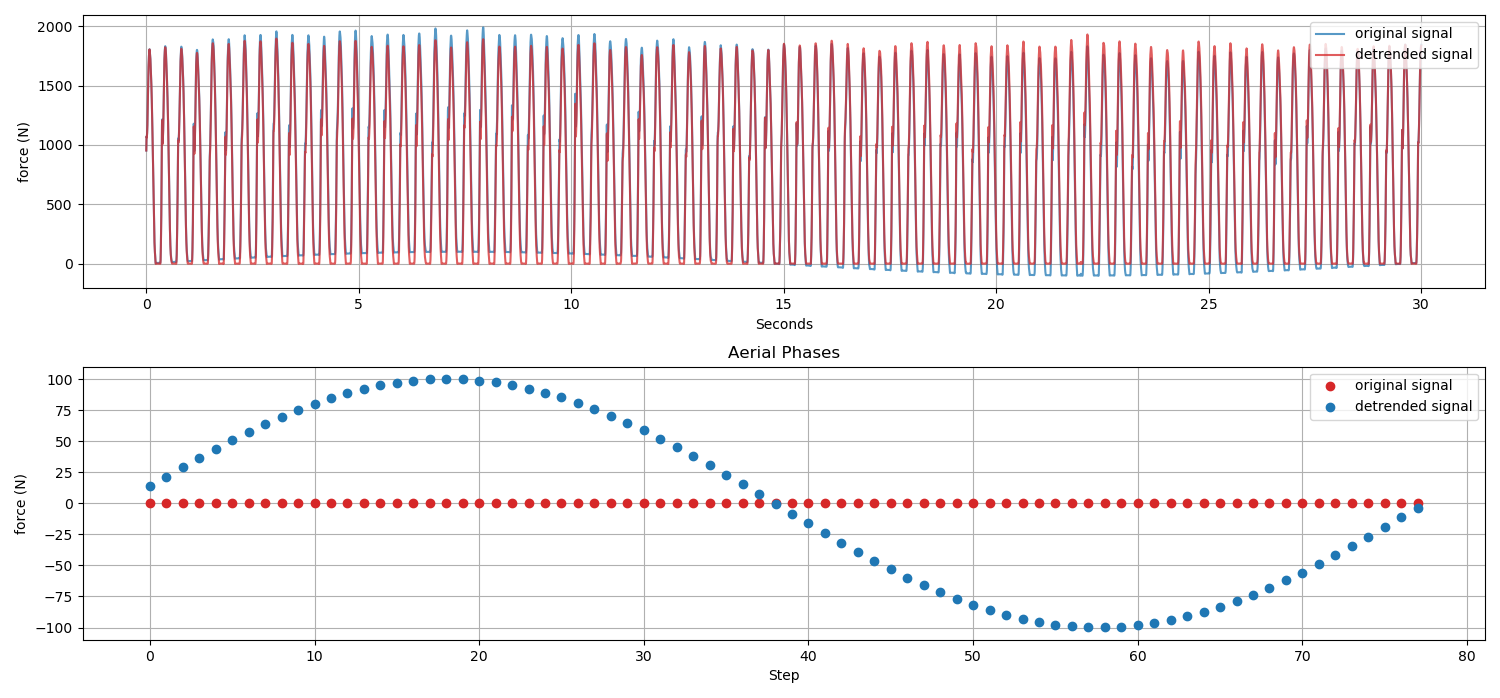
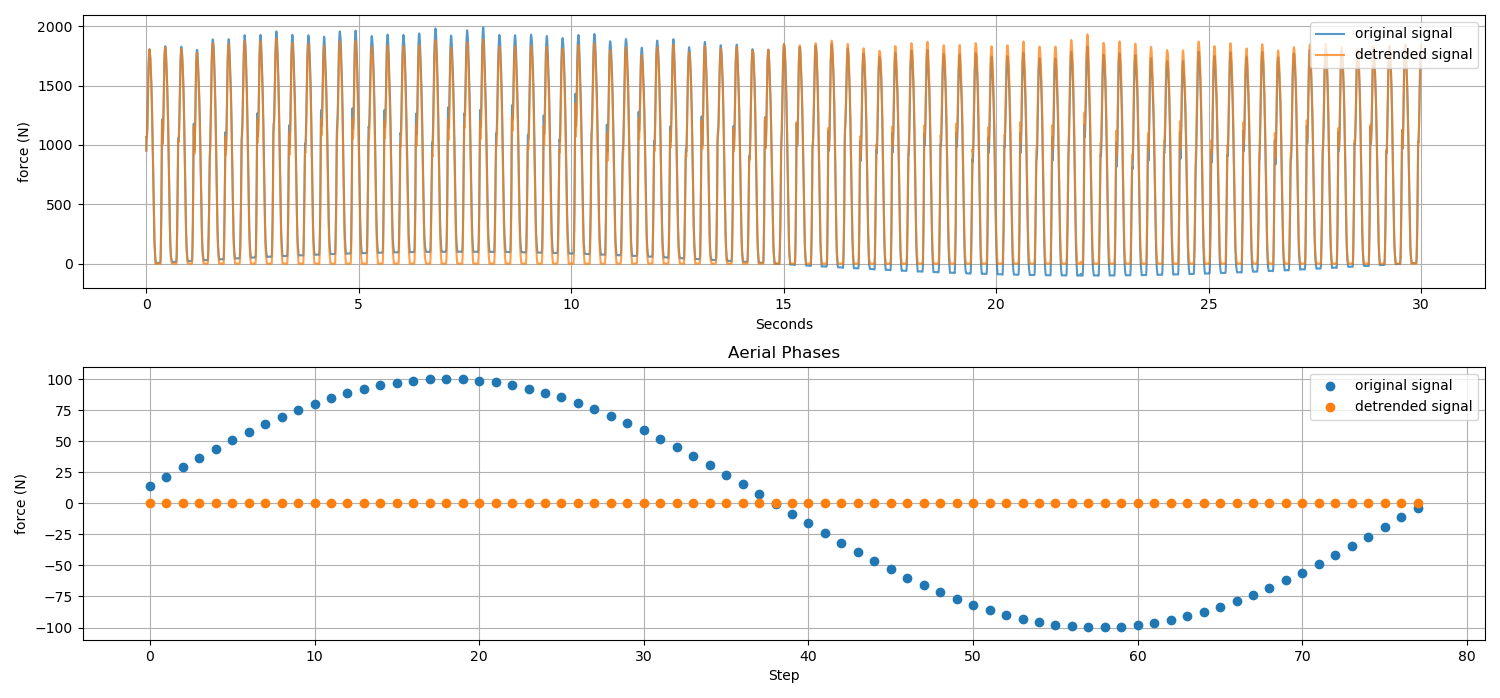
fix output plot legends/colors

Changed region(s): [[0.092, 0.0602, 0.9507, 0.3911], [0.092, 0.692, 0.9507, 0.7521]]

diff --git a/sample/sample.py b/sample/sample.py
@@ -28,7 +28,7 @@ stance_begin, stance_end = signal.splitsteps(vGRF=GRF_filt[:,2],
 aerial_vals, aerial_loc = signal.aerialforce(GRF_filt[:,2], stance_begin, stance_end)
 
 # Plot all aerial phases to see what is being subtracted from signal in signal.detrend()
-plot.aerial(GRF_filt[:,2], aerial_vals, aerial_loc, stance_begin, stance_end)
+# plot.aerial(GRF_filt[:,2], aerial_vals, aerial_loc, stance_begin, stance_end)
 
 # Detrend signal
 force_fd = signal.detrend(GRF_filt[:,2], aerial_vals, aerial_loc)
@@ -45,15 +45,17 @@ aerial_vals_d, aerial_loc_d = signal.aerialforce(force_fd, stance_begin_d, stanc
 # Plot waveforms (original vs detrended)
 plt.detrendp, (plt1, plt2) = plt.subplots(2, 1, figsize=(15, 7))
 plt1.plot(np.linspace(0, force_fd.shape[0] / Fs, force_fd.shape[0]),
-             GRF_filt[:,2],
-             color='tab:blue',
-             alpha=0.75)  # converted to sec
+          GRF_filt[:,2],
+          color='tab:blue',
+          alpha=0.75,
+          label='original signal')  # converted to sec
 plt1.plot(np.linspace(0, force_fd.shape[0] / Fs, force_fd.shape[0]),
-             force_fd,
-             color='tab:red',
-             alpha=0.75)  # converted to sec
+          force_fd,
+          color='tab:orange',
+          alpha=0.75,
+          label='detrended signal')  # converted to sec
 plt1.grid(zorder =0)
-plt1.legend(['original signal', 'detrended signal'], loc=1)
+plt1.legend(loc=1)
 plt1.set_xlabel('Seconds')
 plt1.set_ylabel('force (N)')
 
@@ -62,17 +64,17 @@ plt2.set_title('Aerial Phases')
 plt2.set_xlabel('Step')
 plt2.set_ylabel('force (N)')
 plt.scatter(np.arange(aerial_vals_d.shape[0]),
-         aerial_vals_d,
-         marker='o',
-         color='tab:red',
-         label='detredned signal', zorder = 2)
+            aerial_vals,
+            marker='o',
+            color='tab:blue',
+            label='original signal', zorder = 2)
 plt.scatter(np.arange(aerial_vals.shape[0]),
-         aerial_vals,
-         marker='o',
-         color='tab:blue',
-         label='original signal', zorder = 2)
+            aerial_vals_d,
+            marker='o',
+            color='tab:orange',
+            label='detrended signal', zorder = 2)
 
-plt2.legend(['original signal', 'detrended signal'], loc=1)
+plt2.legend(loc=1)
 plt.tight_layout()
 plt2.grid(zorder = 0)
 plt.show(block=True)

diff --git a/README.md b/README.md
@@ -1,6 +1,6 @@
 # `dryft`
-![output_image](sample/output.png)
 #### Created by [Ryan Alcantara](https://alcantarar.github.io)
+![output_image](sample/output.png)
 
 `dryft` is an open-source Python package that corrects running ground reaction force (GRF) 
 signal drift. This package was developed for biomechanical researchers using force plates
@@ -138,18 +138,19 @@ stance_begin_d, stance_end_d = signal.splitsteps(vGRF=force_fd,
                                              plot=False)
 aerial_vals_d, aerial_loc_d = signal.aerialforce(force_fd, stance_begin_d, stance_end_d)
 
-# Plot waveforms (original vs detrended)
-plt.detrendp, (plt1, plt2) = plt.subplots(2, 1, figsize=(15, 7))
+# Plot waveforms (original vs detrended)plt.detrendp, (plt1, plt2) = plt.subplots(2, 1, figsize=(15, 7))
 plt1.plot(np.linspace(0, force_fd.shape[0] / Fs, force_fd.shape[0]),
-             GRF_filt[:,2],
-             color='tab:blue',
-             alpha=0.75)  
+          GRF_filt[:,2],
+          color='tab:blue',
+          alpha=0.75,
+          label='original signal')  # converted to sec
 plt1.plot(np.linspace(0, force_fd.shape[0] / Fs, force_fd.shape[0]),
-             force_fd,
-             color='tab:red',
-             alpha=0.75)  
+          force_fd,
+          color='tab:orange',
+          alpha=0.75,
+          label='detrended signal')  # converted to sec
 plt1.grid(zorder =0)
-plt1.legend(['original signal', 'detrended signal'], loc=1)
+plt1.legend(loc=1)
 plt1.set_xlabel('Seconds')
 plt1.set_ylabel('force (N)')
 
@@ -158,17 +159,17 @@ plt2.set_title('Aerial Phases')
 plt2.set_xlabel('Step')
 plt2.set_ylabel('force (N)')
 plt.scatter(np.arange(aerial_vals_d.shape[0]),
-         aerial_vals_d,
-         marker='o',
-         color='tab:red',
-         label='detredned signal', zorder = 2)
-plt.scatter(np.arange(aerial_vals.shape[0]), 
-         aerial_vals,
-         marker='o',
-         color='tab:blue',
-         label='original signal', zorder = 2)
+            aerial_vals,
+            marker='o',
+            color='tab:blue',
+            label='original signal', zorder = 2)
+plt.scatter(np.arange(aerial_vals.shape[0]),
+            aerial_vals_d,
+            marker='o',
+            color='tab:orange',
+            label='detrended signal', zorder = 2)
 
-plt2.legend(['original signal', 'detrended signal'], loc=1)
+plt2.legend(loc=1)
 plt.tight_layout()
 plt2.grid(zorder = 0)
 plt.show()
